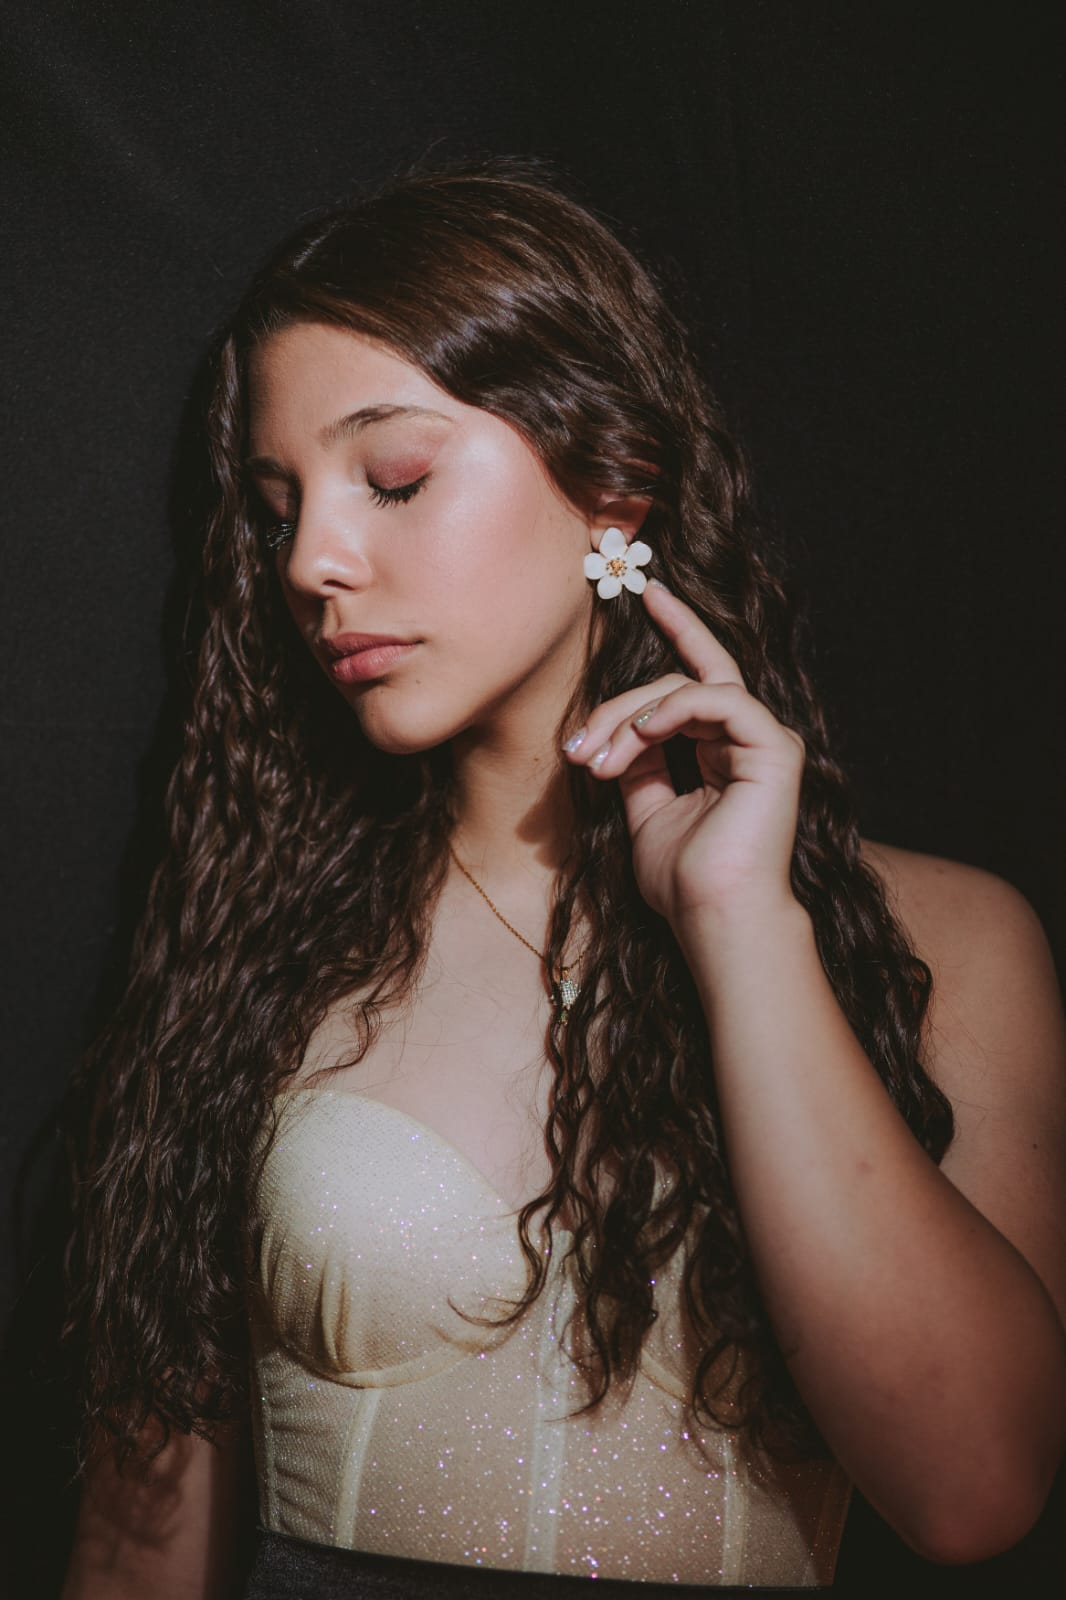
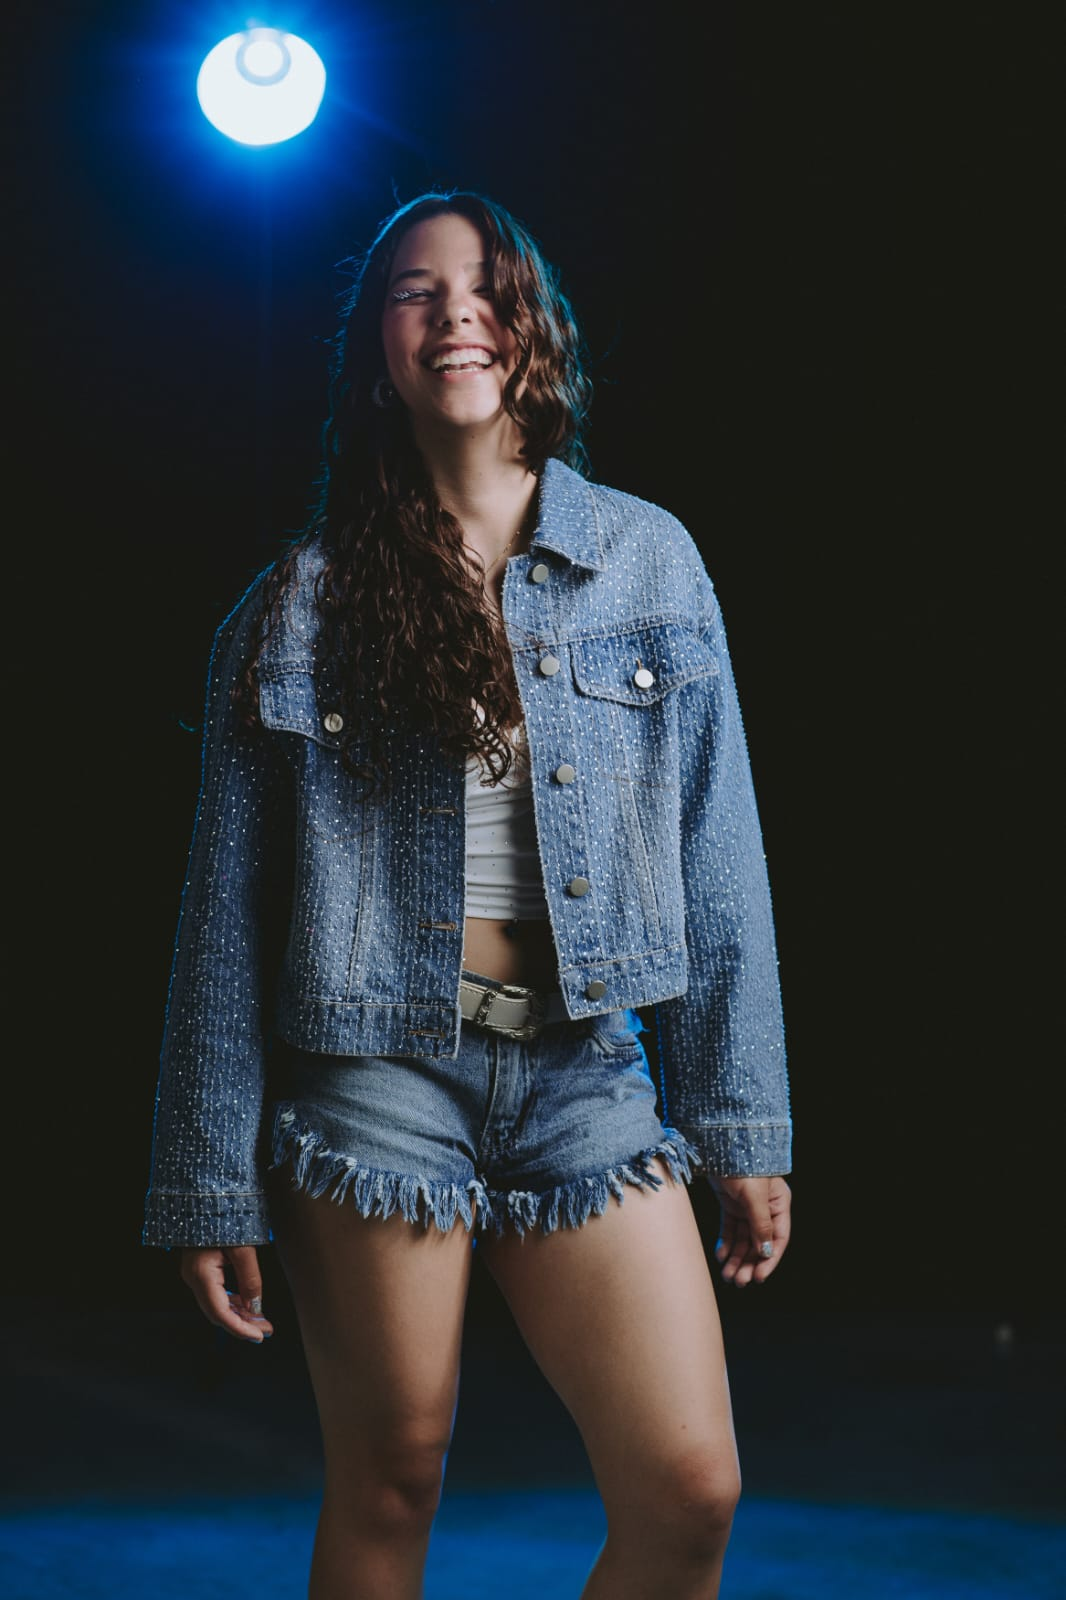
Add files via upload

diff --git a/modelo/lula271225/files/styles.css b/modelo/lula271225/files/styles.css
@@ -189,7 +189,7 @@ header {
     min-height: 600px;
     position: relative;
 
-    background-image: linear-gradient(to top, rgba(255, 225, 0, 0), rgba(255, 187, 0, 0)), url(../files/portada.jpeg);
+    background-image: linear-gradient(to top, rgba(255, 225, 0, 0), rgba(255, 187, 0, 0)), url(../files/portada_.jpeg);
     background-position: top;
     background-size: cover;
     overflow: hidden;
@@ -203,6 +203,30 @@ header {
     margin: 0 auto;
     overflow: hidden;
 }
+.img-text-container {
+    position: relative;
+    display: inline-block; /* O block si querés ancho completo */
+    width: 100%; /* Si querés que ocupe todo el ancho disponible */
+}
+
+.img-text-container img {
+    width: 100%;
+    display: block;
+    border-radius: 1em; /* opcional si quieres bordes redondeados */
+}
+
+.img-text {
+    position: absolute;
+    top: 50%;                /* posición vertical */
+    left: 50%;               /* posición horizontal */
+    transform: translate(-50%, -50%); /* centra el texto */
+    color: #fff;             /* color del texto */
+    font-size: 2.2rem;       /* tamaño del texto */
+    text-align: center;
+    font-weight: bold;
+    text-shadow: 2px 2px 5px #000000b9; /* para que se lea mejor */
+}
+
 
 .nav {
     --state-open: scale(1);
